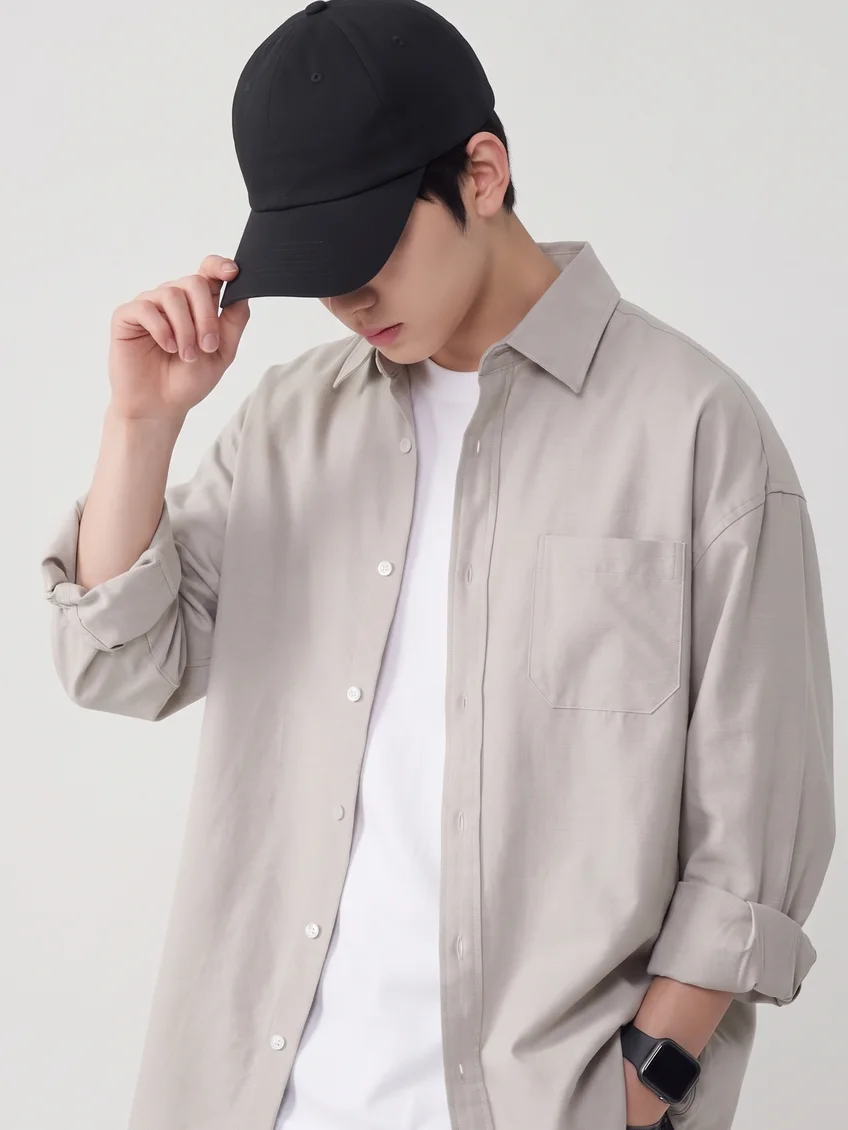
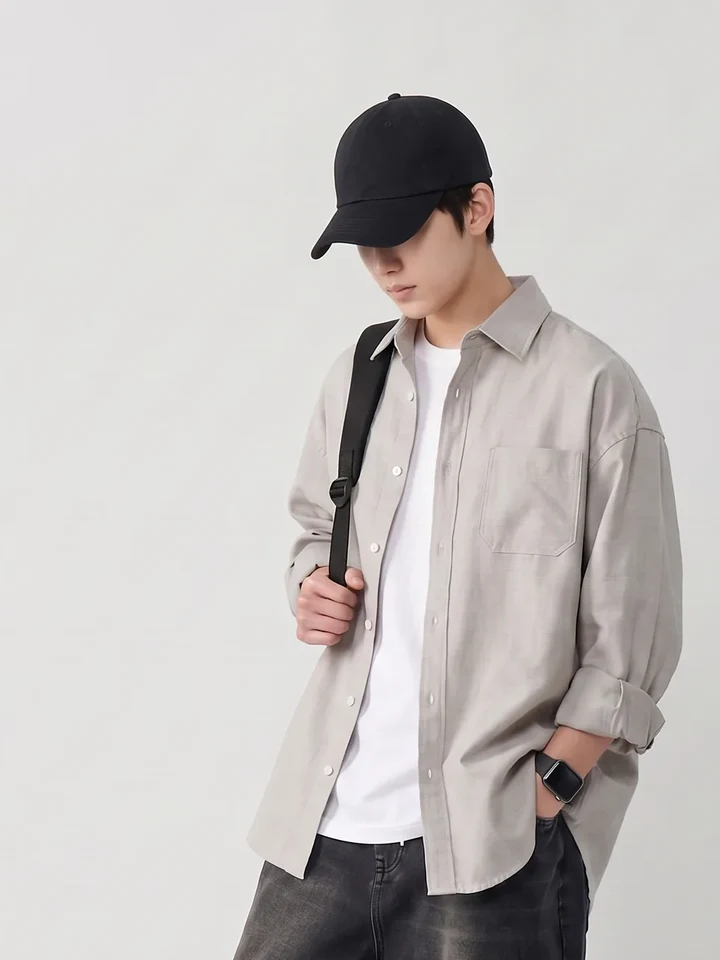
셔츠 섹션 썸네일: 모델 머리부터 셔츠 밑단까지 보이도록 다시 자름
Claude-Session: https://claude.ai/code/session_01KQMEfT2ai38yMadH4zStAs

diff --git a/js/ai_works.js b/js/ai_works.js
@@ -198,7 +198,7 @@ window.AI_WORKS = [
     product: '옥스포드 셔츠',
     title: '옥스포드 셔츠 Khaki',
     thumb: 'img/ai/oxford/khaki-thumb.webp',
-    thumbPos: '50% 0%',
+    thumbPos: '50% 50%',
     models: [
       'img/ai/oxford/khaki-1.webp',
       'img/ai/oxford/khaki-2.webp',
@@ -219,7 +219,7 @@ window.AI_WORKS = [
     product: '옥스포드 셔츠',
     title: '옥스포드 셔츠 Navy',
     thumb: 'img/ai/oxford/navy-thumb.webp',
-    thumbPos: '50% 0%',
+    thumbPos: '50% 50%',
     models: [
       'img/ai/oxford/navy-1.webp',
       'img/ai/oxford/navy-2.webp',
@@ -237,7 +237,7 @@ window.AI_WORKS = [
     product: '옥스포드 셔츠',
     title: '옥스포드 셔츠 Sky',
     thumb: 'img/ai/oxford/sky-thumb.webp',
-    thumbPos: '50% 0%',
+    thumbPos: '50% 50%',
     models: [
       'img/ai/oxford/sky-1.webp',
       'img/ai/oxford/sky-2.webp',
@@ -255,7 +255,7 @@ window.AI_WORKS = [
     product: '반팔 데님 셔츠',
     title: '반팔 데님 셔츠',
     thumb: 'img/ai/denimshirt/thumb.webp',
-    thumbPos: '50% 20%',
+    thumbPos: '50% 50%',
     models: [
       'img/ai/denimshirt/1.webp',   // Light Blue
       'img/ai/denimshirt/2.webp',   // Light Blue
